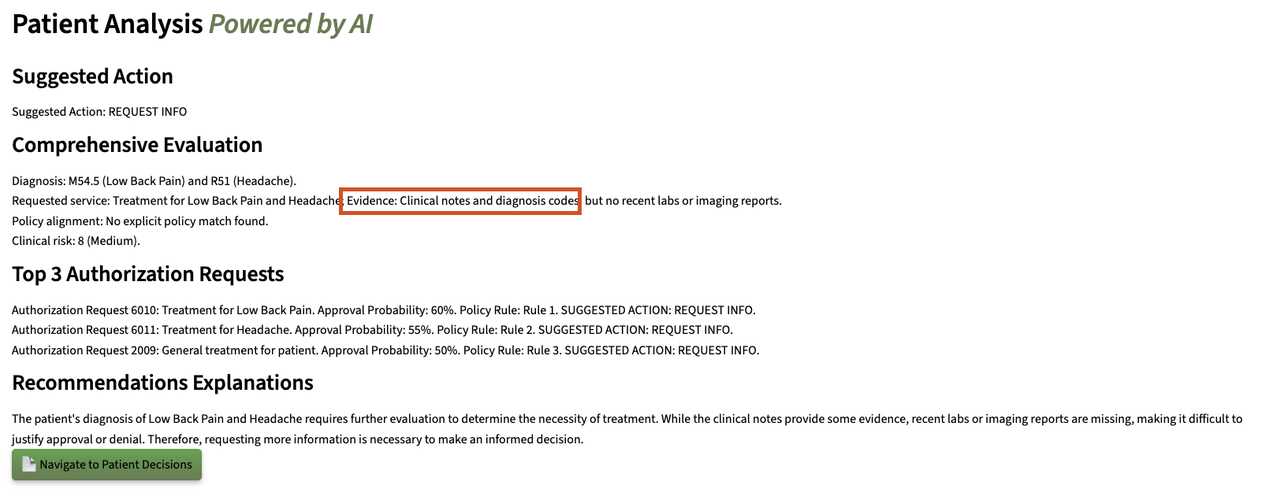
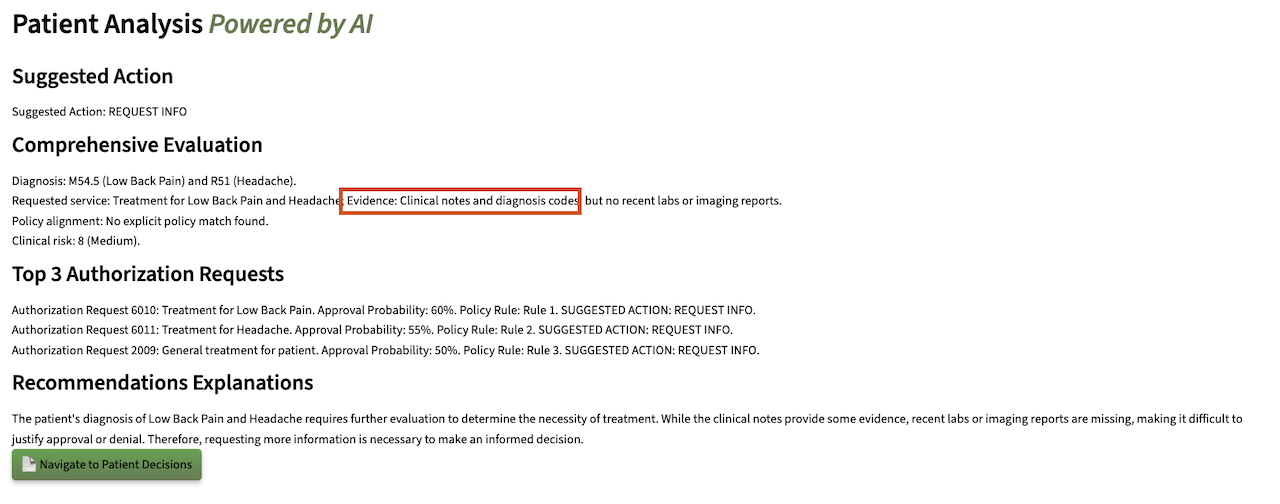
11850- Markdown change for finance (#708)
* updating instructions for retail

* updates to healthcare markdown

* retail lab 1

most of screen shots are finished besides PDFS and last task

* screenshots for lab 1 and intro video

* lab 4 screenshots

* fix lab 4 and manifest files for retail and healthcare

* lab 1 screenshots

* incorporated feedback from Retail experts

* lab 1 markdown- healthcare

* lab 4 and 1 updates

* lab 4 and 1 updates

* lab 4 and 1 updates

* retail lab 4

* healthcare lab 4

* take out graph

* changes implemented from UAT

* created folder for energy and updates to lab 1

* energy and utilities lab 4 update

* added graph to retail, healthcare, and e&u. updated retail lab 4

* manufacturing lab 4 and high tech lab 1

* manufacturing and graph for other industries

* high tech lab 4

* getting rid of unnecessary comments

* manufacturing lab 1

* final markdown changes

* gaming markdown

* creating lab changes for ai experience

* updated intro.md

* bolding sections

* updating grammar for fsi, energy and mcp labs

* updated task numbering and juptyer login info for energy ai exp

* blocking sensitive info

* adding view login info to mcp lab

* fixing rag question

* updating grammar and spelling for retail, mfg and healthcare

* Update build.md

* typo in lab 1

* fixing formatting issues

Pull request: 11850- Markdown change for finance
# 11850 


# Our SLAs
[Please review before contacting us](https://oracle-livelabs.github.io/common/sample-livelabs-templates/create-labs/labs/workshops/livelabs/?lab=sla)

# General requirements
1. Information in the workshop is adequate and updated
2. Code is correct and working
3. Links are correct
4. Make sure you enter the help email link in your manifest.json
5. Please make sure WMS URLs are updated as needed after your PR is approved


# Checklist - Refer to the Self QA Checklist in WMS for the complete list
Please confirm that the following is completed before submitting your PR

- [ ] [Complete the Self QA Checklist in WMS](https://oracle-livelabs.github.io/common/sample-livelabs-templates/create-labs/labs/workshops/livelabs/?lab=5-labs-qa-checks#Task3:SelfQA)
- [ ] Your workshop folder structure should be similar to the one used in the [sample workshop](https://github.com/oracle-livelabs/common/tree/main/sample-livelabs-templates/sample-workshop)
- [ ] All filenames are lowercase and descriptive (including folders, images, files, etc.)
- [ ] Image references in markdown contain an alternate text.
- [ ] Ensure the PR does not contain binary or install files and files larger than 100 MB.

diff --git a/dev-ai-app-dev-finance-aiexperience/user-story/user-story.md b/dev-ai-app-dev-finance-aiexperience/user-story/user-story.md
@@ -26,7 +26,7 @@ This lab assumes you have:
 
     ![Click the Start Demo Link](./images/start-demo.png =50%x*)
 
-2. Welcome to Seer Holdings! Select **Financial Services** as Industry and **Approval Officer** as role. Enter in a username and click **Login.**
+2. Welcome to Seer Equities! Select **Financial Services** as Industry and **Approval Officer** as role. Enter in a username and click **Login.**
 
     ![Login](./images/flogin.png =50%x*)
 
@@ -59,7 +59,7 @@ In this first example, you will use the application to approve a customer with s
 
     ![James Smith chatbot](./images/lab105.png =50%x*)
 
->💡 In Oracle AI Database, **AI Vector Search** allows you to combine your business data with the Large Language Model (LLM) to reduce hallucinations and get accurate answers from your data.
+    >💡 In Oracle AI Database, **AI Vector Search** allows you to combine your business data with the Large Language Model (LLM) to reduce hallucinations and get accurate answers from your data.
 
 4. Select the **Navigate To Customer Decisions** button.
 
@@ -83,11 +83,11 @@ In this first example, you will use the application to approve a customer with s
 
     ![James Smith Save Loan Status](./images/james-smith-save.png =50%x*)
 
-8.  Click the **Download Decision PDF** button.
+8. Click the **Download Decision PDF** button.
 
     ![James Smith Download Recommendation](./images/james-smith-download.png =50%x*)
 
-9.  Click **Download PDF**
+9. Click **Download PDF**
 
     ![James Smith Download PDF](./images/james-smith-download-pdf.png =50%x*)
 
@@ -138,7 +138,7 @@ In this example, you will navigate the application to review a customer and deny
 
     ![James Woods Decision](./images/lab133.png =50%x*)
 
->⁉️ **What is the reason that the AI decided to deny this applicant?** ⁉️
+    >⁉️ **What is the reason that the AI decided to deny this applicant?** ⁉️
 
 
 4. Expand **Interactive Graph: Client-Loan Relationships** to view the graph.
@@ -151,7 +151,7 @@ In this example, you will navigate the application to review a customer and deny
 
     This graph reveals that while James Woods was denied for his requested loan, he is close to qualifying for a different product. Instead of a hard stop (“Denied – end of story”), the graph highlights a path forward
 
->💡 In Oracle AI Database, **Property Graph** allows you to treat your data like a network of connected points, where each point (called a node) and each link (called an edge) has its own details or properties. This setup helps you run graph analytics, like finding important connections or patterns, directly within the database.
+    >💡 In Oracle AI Database, **Property Graph** allows you to treat your data like a network of connected points, where each point (called a node) and each link (called an edge) has its own details or properties. This setup helps you run graph analytics, like finding important connections or patterns, directly within the database.
 
 5. The loan status is set to **Denied**. Click the **Confirm decision** button.
 
@@ -175,7 +175,7 @@ In this example, you will navigate the application to review a customer and deny
 
     ![Return to Dashboard](./images/woods-decision2.png =50%x*)
 
-10.  Expand **View Denied Customers**. You will see that James Woods has been moved from the **Pending Review Loan Requests** list to the **Denied Loan Requests** section.
+10. Expand **View Denied Customers**. You will see that James Woods has been moved from the **Pending Review Loan Requests** list to the **Denied Loan Requests** section.
 
     ![James Woods Denied List](./images/woods-decision3.png =50%x*)
 
@@ -199,7 +199,7 @@ Lastly, let’s explore how the system uses JSON Duality Views to handle profile
 
     ![Click Process Selected PDF](./images/upload-anderson.png =50%x*)
 
->💡 **JSON Duality Views** let's you update unstructured data in an easy, high-level format while automatically handling the technical details behind the scenes. This makes it faster and simpler to work with messy data and connect it to structured systems.
+    >💡 **JSON Duality Views** let's you update unstructured data in an easy, high-level format while automatically handling the technical details behind the scenes. This makes it faster and simpler to work with messy data and connect it to structured systems.
 
 4. The customer profile has been updated.
 